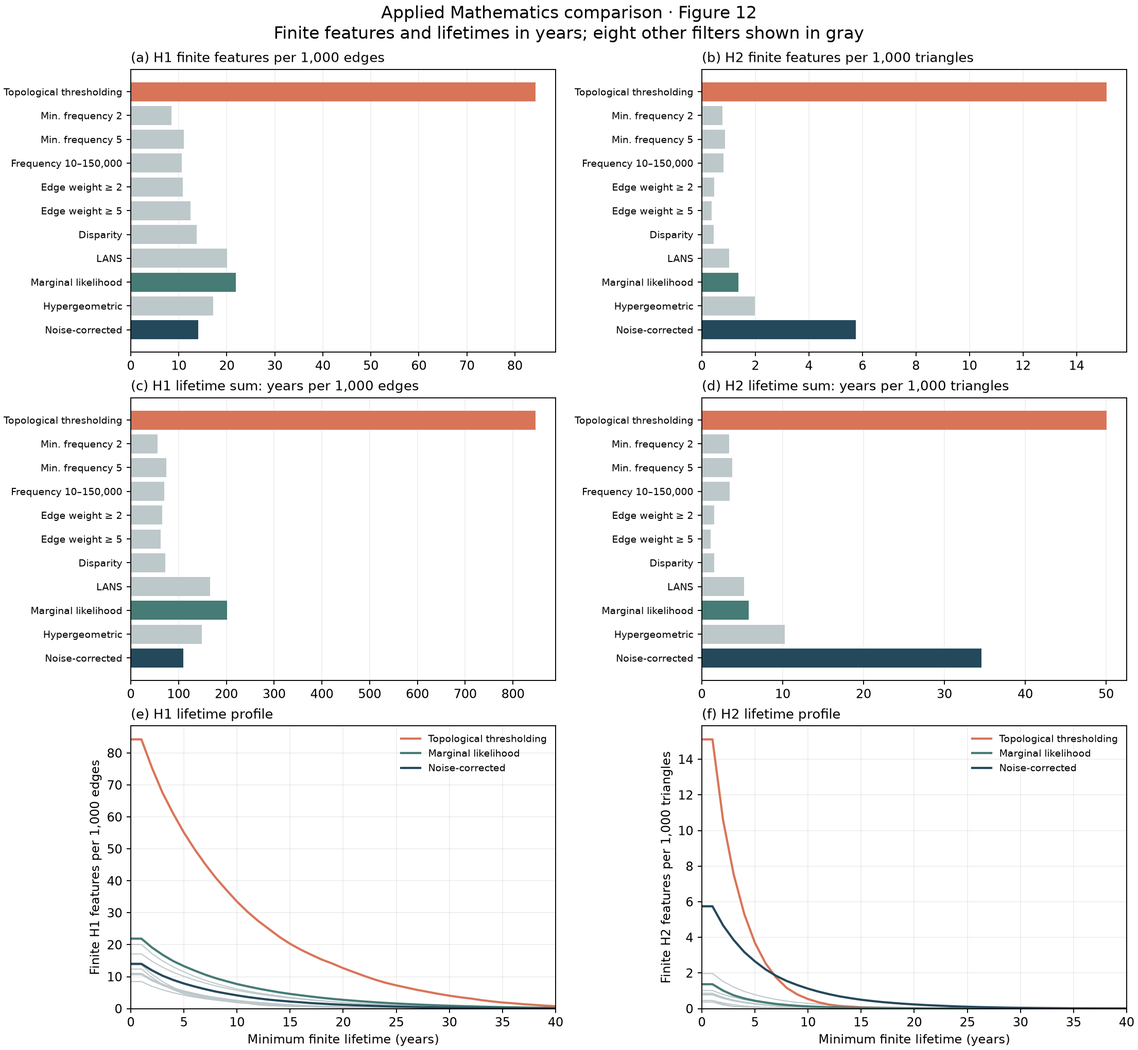
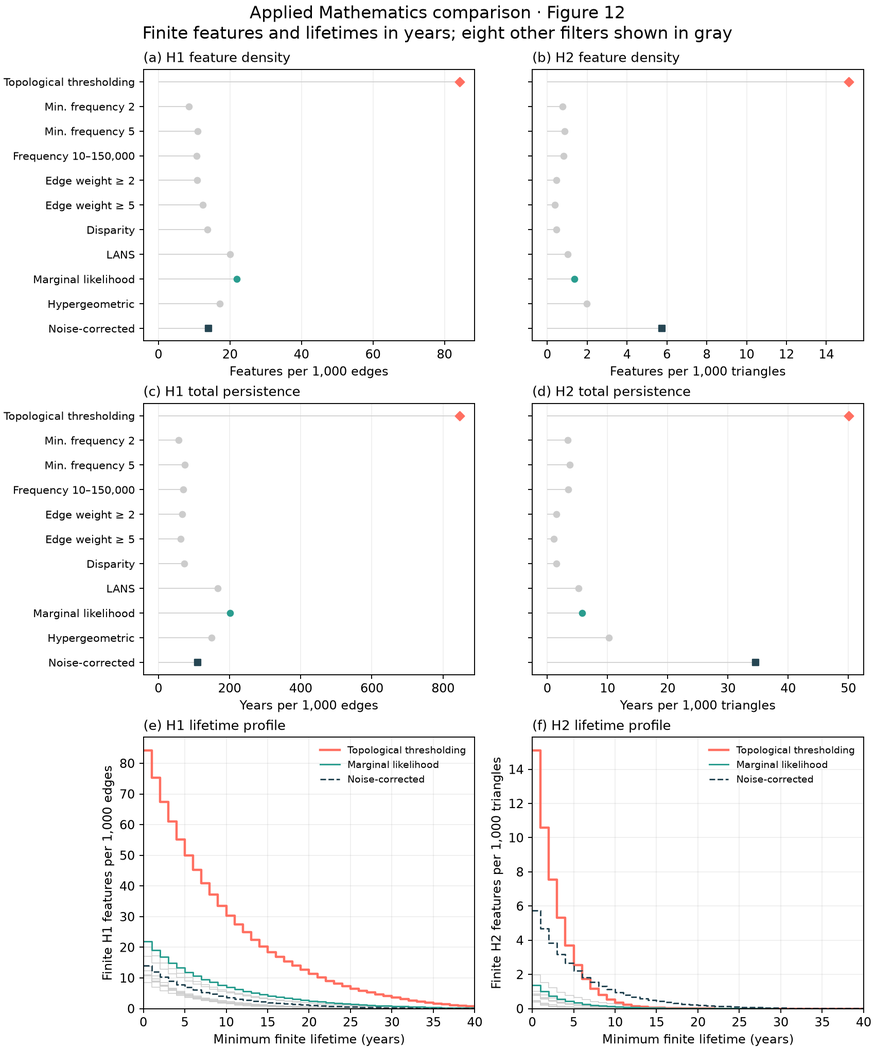
Match replication figures to the manuscript

diff --git a/reproduce.py b/reproduce.py
@@ -9,7 +9,7 @@ from pathlib import Path
 import matplotlib
 matplotlib.use("Agg")
 import matplotlib.pyplot as plt
-from matplotlib.colors import LogNorm
+from matplotlib.colors import LinearSegmentedColormap, LogNorm
 import numpy as np
 import pandas as pd
 
@@ -75,44 +75,73 @@ def calculate():
 
 
 def plot(grid, selections):
-    """One overview of the three reproduced analyses; axes show grid indices."""
-    plt.rcParams.update({"font.size": 10, "axes.spines.top": False, "axes.spines.right": False})
-    fig, axes = plt.subplots(2, 2, figsize=(12, 10), layout="constrained")
+    """Draw Figures 8, 9 and 11 on the manuscript's selectable grid."""
+    plt.rcParams.update({"font.size": 11, "axes.labelsize": 11,
+                         "xtick.labelsize": 10, "ytick.labelsize": 10})
+    palette = LinearSegmentedColormap.from_list("charcoal", ["#eff2f2", "#264653"])
+    lower = grid.groupby("lower_index").lower.first().to_numpy()
+    upper = grid.groupby("upper_index").upper.first().to_numpy()
     highlighted = selections[selections.kind == "highlighted"]
-    for ax, metric, title in zip(axes.flat, ["score", "features", "variance", "sweep"],
-                                ["Local-change score · Figure 8a", "H1 + H2 features · Figure 8b",
-                                 "Higher-order variance · Figure 11", "Constraint sweep · Figure 9"]):
-        if metric == "sweep":
-            sweep = selections[selections.kind == "sweep"].dropna(subset=["score"])
-            counts = sweep.groupby(["upper_index", "lower_index"]).size()
-            ax.scatter(counts.index.get_level_values(1), counts.index.get_level_values(0),
-                       s=counts.to_numpy() * 16, color="#db7866", alpha=.8)
-            for (i, j), count in counts.nlargest(3).items():
-                ax.annotate(str(count), (j, i), ha="center", va="center", fontsize=9)
-            ax.text(.02, .97, f"{len(sweep)} feasible settings; {len(counts)} selected cells\nBubble area = selection count",
-                    transform=ax.transAxes, va="top", fontsize=9)
-        else:
-            values = grid.H1 + grid.H2 if metric == "features" else grid[metric]
-            matrix = values.to_numpy().reshape(16, 9)
-            matrix = np.ma.masked_invalid(matrix)
-            if metric != "features":
-                matrix[:, 0] = np.ma.masked
-            shown = ax.imshow(matrix, origin="lower", aspect="auto", cmap="viridis",
-                              norm=LogNorm(vmin=float(matrix[matrix > 0].min()), vmax=float(matrix.max())))
-            colorbar = fig.colorbar(shown, ax=ax, shrink=.8)
-            colorbar.ax.tick_params(labelsize=8)
-            for row, marker in zip(highlighted.itertuples(), ["*", "+", "o"]):
-                ax.scatter(row.lower_index, row.upper_index, marker=marker, s=90,
-                           color="white", linewidth=1.5)
-        ax.set(title=title, xlabel="Lower frequency threshold (articles)",
-               ylabel="Upper frequency threshold (articles)", xlim=(-.5, 8.5), ylim=(-.5, 15.5))
-        lower = grid.groupby("lower_index").lower.first()
-        upper = grid.groupby("upper_index").upper.first()
-        ax.set_xticks(range(9), [f"{x:.1f}" for x in lower], rotation=45)
-        ax.set_yticks([0, 3, 6, 9, 12, 15], [f"{upper[i]:,.0f}" for i in [0, 3, 6, 9, 12, 15]])
-    fig.suptitle("Applied Mathematics: selections from the saved persistence diagrams\n"
-                 "Markers: star = 25/25; plus = 50/25; dot = 75/50 constraints", fontsize=13)
-    fig.savefig(OUTPUT / "applied_math.png", dpi=170)
+
+    def heatmap(ax, metric, title):
+        values = grid.H1 + grid.H2 if metric == "features" else grid[metric]
+        matrix = values.to_numpy().reshape(len(upper), len(lower))[:, 1:]
+        norm = LogNorm(vmin=matrix.min(), vmax=matrix.max()) if metric == "variance" else None
+        shown = ax.imshow(matrix, origin="lower", aspect="auto", cmap=palette,
+                          norm=norm, interpolation="nearest")
+        ax.set(title=title, xlabel="Lower bound ℓ (articles)", ylabel="Upper bound u (articles)")
+        ax.set_box_aspect(1)
+        ax.set_xticks(range(len(lower) - 1),
+                      [f"{x:.1f}" if i in {0, 2, 5, 7} else "" for i, x in enumerate(lower[1:])])
+        ax.set_yticks(range(len(upper)),
+                      ["No upper\ncutoff" if i == len(upper) - 1 else
+                       f"{x:.1f}" if i % 2 == 0 else "" for i, x in enumerate(upper)])
+        ax.tick_params(length=2)
+        colorbar = ax.figure.colorbar(shown, ax=ax, fraction=.046, pad=.035)
+        colorbar.ax.tick_params(labelsize=9)
+
+    def markers(ax):
+        for row, marker, size in zip(highlighted.itertuples(), ["*", "P", "o"], [150, 85, 55]):
+            ax.scatter(row.lower_index - 1, row.upper_index, marker=marker, s=size,
+                       color="#2b2b2b", edgecolors="white", linewidth=.8, zorder=5)
+
+    # The first lower-bound column supplies neighbors but is not selectable.
+    marker_key = "H₁/H₂ constraint percentiles: star 25/25 · plus 50/25 · dot 75/50"
+    fig, axes = plt.subplots(1, 2, figsize=(11, 5.4), layout="constrained")
+    for ax, metric, title in zip(axes, ["score", "features"],
+                                ["Figure 8a · Local-change score", "Figure 8b · H₁ + H₂ features"]):
+        heatmap(ax, metric, title)
+        markers(ax)
+    fig.supxlabel(marker_key, fontsize=11)
+    fig.savefig(OUTPUT / "applied_math_selections.png", dpi=170)
+    plt.close(fig)
+
+    sweep = selections[selections.kind == "sweep"].dropna(subset=["score"]).copy()
+    sweep["strictness"] = sweep.percentile_H1 + sweep.percentile_H2
+    bubbles = sweep.groupby(["upper_index", "lower_index"]).agg(
+        count=("strictness", "size"), strictness=("strictness", "mean")).reset_index()
+    lo, hi = sweep.strictness.min(), sweep.strictness.max()
+    shade = (bubbles.strictness - lo) / (hi - lo)
+    fig, axes = plt.subplots(1, 2, figsize=(11, 5.4), layout="constrained")
+    for ax, metric, title in zip(axes, ["score", "features"],
+                                ["Figure 9a · Local-change score", "Figure 9b · H₁ + H₂ features"]):
+        heatmap(ax, metric, title)
+        ax.scatter(bubbles.lower_index - 1, bubbles.upper_index, s=bubbles["count"] * 17,
+                   c=shade, cmap="gray_r", vmin=-.4, vmax=1.15,
+                   edgecolors="#2b2b2b", linewidths=.6, zorder=5)
+    for row in bubbles.nlargest(3, "count").itertuples():
+        axes[0].annotate(str(row.count), (row.lower_index - 1, row.upper_index),
+                         xytext=(11, 0), textcoords="offset points", va="center", fontsize=10)
+    fig.supxlabel(f"{len(sweep)} feasible settings · {len(bubbles)} selected cells\n"
+                  "Bubble area = number of selections; darker bubbles = stricter constraints", fontsize=11)
+    fig.savefig(OUTPUT / "applied_math_sweep.png", dpi=170)
+    plt.close(fig)
+
+    fig, ax = plt.subplots(figsize=(6.5, 6.4), layout="constrained")
+    heatmap(ax, "variance", "Figure 11 · Higher-order variance")
+    markers(ax)
+    fig.supxlabel(marker_key, fontsize=9)
+    fig.savefig(OUTPUT / "applied_math_variance.png", dpi=170)
     plt.close(fig)
 
 

diff --git a/comparisons.py b/comparisons.py
@@ -9,6 +9,7 @@ from pathlib import Path
 import matplotlib
 matplotlib.use("Agg")
 import matplotlib.pyplot as plt
+from matplotlib.colors import LinearSegmentedColormap
 import numpy as np
 import pandas as pd
 
@@ -25,9 +26,8 @@ LABELS = {
 ALTERNATIVES = list(LABELS)[1:]
 METRICS = ["H1_finite_per_1k_edges", "H2_finite_per_1k_triangles",
            "H1_total_finite_persistence_per_1k_edges", "H2_total_finite_persistence_per_1k_triangles"]
-TITLES = ["H1 finite features per 1,000 edges", "H2 finite features per 1,000 triangles",
-          "H1 lifetime sum: years per 1,000 edges", "H2 lifetime sum: years per 1,000 triangles"]
-COLORS = {METHOD: "#d87559", "marginal_likelihood": "#467b76", "noise_corrected_variance": "#24495b"}
+TITLES = ["H1 feature density", "H2 feature density", "H1 total persistence", "H2 total persistence"]
+COLORS = {METHOD: "#FF6F61", "marginal_likelihood": "#2A9D8F", "noise_corrected_variance": "#264653"}
 
 
 def calculate_metrics(networks):
@@ -64,11 +64,17 @@ def summarize(measures):
 def plot_applied_math(measures, survival):
     """Figure 12: normalized aggregates and finite-lifetime survival profiles."""
     applied = measures[measures.field_code == "102"].set_index("method").loc[list(LABELS)]
-    fig, axes = plt.subplots(3, 2, figsize=(13, 12), layout="constrained")
+    fig, axes = plt.subplots(3, 2, figsize=(10, 12), layout="constrained")
     for panel, (ax, metric, title) in enumerate(zip(axes.flat, METRICS, TITLES)):
-        ax.barh(range(11), applied[metric], color=[COLORS.get(m, "#bdc8ca") for m in LABELS])
-        ax.set_yticks(range(11), LABELS.values(), fontsize=8)
+        ax.hlines(range(11), 0, applied[metric], color="#CCCCCC", lw=0.7)
+        for y, method in enumerate(LABELS):
+            marker = "D" if method == METHOD else "s" if method == "noise_corrected_variance" else "o"
+            ax.scatter(applied.loc[method, metric], y, marker=marker,
+                       s=28 if method == METHOD else 23, color=COLORS.get(method, "#CCCCCC"), zorder=3)
+        ax.set_yticks(range(11), list(LABELS.values()) if panel % 2 == 0 else [""] * 11, fontsize=9)
         ax.invert_yaxis()
+        units = "Features" if panel < 2 else "Years"
+        ax.set_xlabel(f"{units} per 1,000 " + ("edges" if panel % 2 == 0 else "triangles"))
         ax.set_title(f"({chr(97 + panel)}) {title}", fontsize=11, loc="left")
         ax.set_axisbelow(True)
         ax.grid(axis="x", alpha=0.2)
@@ -78,8 +84,10 @@ def plot_applied_math(measures, survival):
             curve = survival[(survival.method == method) & (survival.dimension == k)]
             curve = curve.sort_values("min_lifetime_years")
             density = 1000 * curve.finite_count / curve.denominator.where(curve.denominator > 0)
-            ax.plot(curve.min_lifetime_years, density, color=COLORS.get(method, "#bdc8ca"),
-                    lw=1.8 if method in COLORS else 0.9,
+            ax.step(curve.min_lifetime_years, density, where="pre",
+                    color=COLORS.get(method, "#CCCCCC"),
+                    lw=1.9 if method == METHOD else 1.25 if method in COLORS else 0.65,
+                    ls="--" if method == "noise_corrected_variance" else "-",
                     label=LABELS[method] if method in COLORS else None)
         ax.set(xlim=(0, 40), ylim=(0, None), xlabel="Minimum finite lifetime (years)",
                ylabel=f"Finite H{k} features per 1,000 " + ("edges" if k == 1 else "triangles"))
@@ -98,7 +106,8 @@ def plot_across_fields(summary):
     medians = medians.loc[ALTERNATIVES, METRICS]
     counts = summary.pivot(index="alternative", columns="metric", values="n_R").loc[ALTERNATIVES, METRICS]
     fig, ax = plt.subplots(figsize=(11, 7), layout="constrained")
-    plot = ax.imshow(np.log2(medians), cmap="YlGnBu", vmin=0, vmax=4, aspect="auto")
+    cmap = LinearSegmentedColormap.from_list("comparison", ["#264653", "#FFFFFF", "#FF6F61"])
+    plot = ax.imshow(np.log2(medians), cmap=cmap, vmin=-4, vmax=4, aspect="auto")
     ax.set_yticks(range(10), [LABELS[m] for m in ALTERNATIVES])
     ax.set_xticks(range(4), ["H1 feature\ndensity", "H2 feature\ndensity",
                              "H1 normalized\ntotal persistence", "H2 normalized\ntotal persistence"])
@@ -107,9 +116,10 @@ def plot_across_fields(summary):
         for j in range(4):
             ratio = medians.iloc[i, j]
             ax.text(j, i, f"{ratio:.2f}×\n(n={counts.iloc[i, j]})", ha="center", va="center",
-                    fontsize=10, color="white" if np.log2(ratio) > 2.2 else "#142d38")
-    colorbar = fig.colorbar(plot, ax=ax, shrink=0.8, ticks=range(5))
-    colorbar.ax.set_yticklabels(["1×", "2×", "4×", "8×", "16×"])
+                    fontsize=10, color="#2B2B2B")
+    colorbar = fig.colorbar(plot, ax=ax, orientation="horizontal", shrink=0.75,
+                            pad=0.08, ticks=[-4, -2, 0, 2, 4])
+    colorbar.ax.set_xticklabels(["1/16×", "1/4×", "1× = equal", "4×", "16×"])
     colorbar.set_label("Median topological-thresholding / alternative ratio")
     fig.suptitle("Cross-field comparison · Figure 13\n"
                  "Positive pairs determine ratios; Table F2 CSV also includes defined zero outcomes", fontsize=13)

diff --git a/README.md b/README.md
@@ -1,8 +1,8 @@
 # Higher-order network selection: replication and example
 
-This repository reproduces the threshold selections, higher-order variance analysis and comparisons with ten alternative methods reported in *Higher-Order Network Structure Inference: A Topological Approach to Network Selection*, by Adam Schroeder, Russell Funk, Jingyi Guan, Taylor Okonek and Lori Ziegelmeier. The calculations use the paper's saved persistence diagrams and network measurements. All required inputs are included.
+This repository reproduces the threshold selections, higher-order variance analysis and comparisons with ten alternative methods reported in [*Higher-Order Network Structure Inference: A Topological Approach to Network Selection*](https://arxiv.org/abs/2510.04884), by Adam Schroeder, Russell J. Funk, Jingyi Guan, Taylor Okonek and Lori Ziegelmeier. The calculations use the [paper](https://arxiv.org/abs/2510.04884)'s saved persistence diagrams and network measurements. All required inputs are included.
 
-The [HONS package](https://github.com/rfunklab/hons) selects network thresholds by minimizing changes in a persistent-homology representation, subject to minimum counts of cycles and cavities. An additional example starts with open workplace contact records and demonstrates the full calculation, from network construction to edge selection.
+The [HONS package](https://github.com/rfunklab/hons) (higher-order network selection) implements topological thresholding, the method studied in the [paper](https://arxiv.org/abs/2510.04884). The method selects network thresholds by minimizing changes in a persistent-homology representation, subject to minimum counts of cycles and cavities. An additional example starts with open workplace contact records and demonstrates the full calculation, from network construction to edge selection.
 
 ## Run the analyses
 
@@ -23,19 +23,23 @@ On Windows, create the environment with `py -3.12 -m venv .venv` and activate it
 
 ## Analyses reproduced
 
-`reproduce.py` recomputes the paper's threshold selections and higher-order variance analysis. `comparisons.py` recomputes the comparisons with ten alternative methods.
+Figure and table numbers below refer to the October 2026 revision. The linked [arXiv preprint](https://arxiv.org/abs/2510.04884) currently contains the earlier October 2025 manuscript.
 
-| Script and output | Figures and tables in the paper | Calculations |
+`reproduce.py` recomputes the [paper](https://arxiv.org/abs/2510.04884)'s threshold selections and higher-order variance analysis. `comparisons.py` recomputes the comparisons with ten alternative methods.
+
+| Script and output | Figures and tables in the [paper](https://arxiv.org/abs/2510.04884) | Calculations |
 | --- | --- | --- |
-| `reproduce.py` → `applied_math.png`, `applied_math_grid.csv`, `applied_math_selections.csv` | Figures 8, 9 and 11 | Persistence images for 144 Applied Mathematics networks, local-change scores for 128 selectable cells, three highlighted selections, the 100-setting constraint sweep and higher-order variance. |
-| `comparisons.py` → `applied_math_comparison.png`, `applied_math_comparison.csv` | Figure 12; four comparison measures in Table F1 | Finite-feature densities, normalized total persistence and finite-lifetime profiles for HONS and ten alternatives, calculated from saved feature counts, lifetime sums, survival counts and network sizes. |
-| `comparisons.py` → `cross_field_comparison.png`, `table_F2.csv` | Figure 13 and Table F2 | Within-field comparisons, median ratios, interquartile ranges, sample sizes and win/tie/loss counts, calculated from saved network-level measurements. |
+| `reproduce.py` → [`applied_math_selections.png`](output/applied_math_selections.png) | Figure 8a–b | Local-change scores and H1 + H2 feature counts, with the three highlighted threshold selections. |
+| `reproduce.py` → [`applied_math_sweep.png`](output/applied_math_sweep.png) | Figure 9a–b | The 100-setting constraint sweep overlaid on the score and feature-count heatmaps. |
+| `reproduce.py` → [`applied_math_variance.png`](output/applied_math_variance.png) | Figure 11 | Higher-order variance across the 128 selectable networks, calculated relative to the mean over all 144 networks. |
+| `comparisons.py` → [`applied_math_comparison.png`](output/applied_math_comparison.png), [`applied_math_comparison.csv`](output/applied_math_comparison.csv) | Figure 12; four comparison measures in Table F1 | Finite-feature densities, normalized total persistence and finite-lifetime profiles for topological thresholding and ten alternatives, calculated from saved feature counts, lifetime sums, survival counts and network sizes. |
+| `comparisons.py` → [`cross_field_comparison.png`](output/cross_field_comparison.png), [`table_F2.csv`](output/table_F2.csv) | Figure 13 and Table F2 | Within-field comparisons, median ratios, interquartile ranges, sample sizes and win/tie/loss counts, calculated from saved network-level measurements. |
 
-Reproduction begins with persistence diagrams and measurements computed for the paper. The scripts recalculate selections and comparison statistics from those inputs. Rebuilding the concept networks from the proprietary Dimensions corpus, running the ten alternative filters and computing the empirical persistence diagrams precede these inputs and are not repeated here. Figure 10's concept neighborhood and analyses outside the table are not included. [Data sources and formats](data/SOURCES.md) describes each input and its preparation.
+Reproduction begins with persistence diagrams and measurements computed for the [paper](https://arxiv.org/abs/2510.04884). The scripts recalculate selections and comparison statistics from those inputs. Rebuilding the concept networks from the proprietary Dimensions corpus, running the ten alternative filters and computing the empirical persistence diagrams precede these inputs and are not repeated here. Figure 10's concept neighborhood and analyses outside the table are not included. [Data sources and formats](data/SOURCES.md) describes each input and its preparation.
 
 ## Applied Mathematics selections
 
-HONS minimizes the local-change score subject to minimum cycle (H1) and cavity (H2) counts. The percentile cutoffs are calculated from feature counts across the 128 selectable networks. Higher-order variance and the four comparison measures evaluate the selected networks. The three highlighted constraint settings produce these selections:
+Topological thresholding minimizes the local-change score subject to minimum cycle (H1) and cavity (H2) counts. The percentile cutoffs are calculated from feature counts across the 128 selectable networks. Higher-order variance and the four comparison measures evaluate the selected networks. The three highlighted constraint settings produce these selections:
 
 | H1 / H2 constraint percentiles | Lower frequency bound | Upper frequency bound | Feasible networks |
 | --- | ---: | ---: | ---: |
@@ -45,19 +49,35 @@ HONS minimizes the local-change score subject to minimum cycle (H1) and cavity (
 
 Frequency bounds are inclusive article counts. The primary 50/25 selection therefore retains concepts appearing in 12–167 articles. That network has the third-lowest higher-order variance among the 44 feasible networks and the tenth-lowest among the 128 selectable networks. The 100-setting sweep finds 99 feasible constraint settings that select 19 distinct threshold pairs; the 91/91 setting is infeasible.
 
-![Recomputed Applied Mathematics selections, feature counts, variance and constraint sweep](output/applied_math.png)
+`applied_math_grid.csv` records the scores, feature counts and variance for all 144 networks. `applied_math_selections.csv` records the three highlighted selections and all 100 constraint settings. The first lower-bound column supplies neighbors for the local-change score and is not selectable, leaving the 128 networks plotted below.
 
-Grid rows and columns are spaced evenly in this overview; their labels give the actual threshold values used in the calculation. Star, plus and dot mark the three constraint settings above. The first lower-bound column supplies neighbors for the local-change score and is not selectable, leaving 128 selectable networks. The mean used for variance includes all 144 networks.
+### Threshold selections—Figure 8
+
+![Figure 8a local-change score and Figure 8b H1 plus H2 feature counts, with three highlighted selections](output/applied_math_selections.png)
+
+Panel a shows the local-change score; panel b shows H1 + H2 feature counts. Star, plus and dot mark the 25/25, 50/25 and 75/50 constraint settings, respectively. Both heatmaps use the manuscript's linear color scales. Rows and columns are spaced evenly; tick labels give the actual frequency bounds.
+
+### Constraint sweep—Figure 9
+
+![Figure 9a score heatmap and Figure 9b feature-count heatmap, both with the constraint-sweep selections overlaid](output/applied_math_sweep.png)
+
+The same sweep selections appear over the score heatmap in panel a and the feature-count heatmap in panel b. Bubble area gives the number of constraint settings selecting each cell. Bubble shade gives the mean sum of the H1 and H2 constraint percentiles for that cell—lighter bubbles indicate looser constraints. Labels give the counts for the three most frequently selected cells.
+
+### Higher-order variance—Figure 11
+
+![Figure 11 higher-order variance across selectable threshold pairs](output/applied_math_variance.png)
+
+Variance uses the mean over all 144 networks and is shown for the 128 selectable networks. Star, plus and dot identify the same three selections as in Figure 8.
 
 ## Comparisons with other methods
 
 The comparisons measure finite-feature density and normalized total persistence in H1 and H2. Densities divide H1 counts by retained edges and H2 counts by retained triangles, multiplying by 1,000. Normalized total persistence divides summed finite lifetimes, in years, by the same denominators and also multiplies by 1,000. A measure is undefined when its edge or triangle denominator is zero.
 
-For each scientific field, `comparisons.py` divides the HONS value by the corresponding alternative's value. Ratios above 1 indicate a larger value for HONS. Pairs with two positive values contribute to the median ratio and interquartile range (`n_R` in `table_F2.csv`). All pairs with defined values, including zeros, contribute to win/tie/loss counts (`n_P`).
+For each scientific field, `comparisons.py` divides the value for topological thresholding by the corresponding alternative's value. Ratios above 1 indicate a larger value for topological thresholding. The sample count printed in each Figure 13 cell is `n_R`, the number of positive pairs. Pairs with two positive values contribute to the median ratio and interquartile range (`n_R` in [`table_F2.csv`](output/table_F2.csv)). All pairs with defined values, including zeros, contribute to win/tie/loss counts (`n_P`).
 
 ## Workplace contact example
 
-`contact_demo.py` uses SocioPatterns observations of face-to-face contacts in a workplace. Each record describes two anonymous participants in a 20-second interval. The script sums contact duration for each pair, dates an edge by its first observation and passes the resulting NetworkX graph to HONS. The paper selects concept nodes by document frequency; this example selects contact edges by total duration.
+[SocioPatterns](https://sociopatterns.org/) is a research collaboration that measures face-to-face contacts using wearable sensors. `contact_demo.py` uses its open [workplace dataset](https://sociopatterns.org/datasets/contacts-in-a-workplace/), collected in an office building in France. Each record describes two anonymous participants in a 20-second interval. The script sums contact duration for each pair, dates an edge by its first observation and passes the resulting NetworkX graph to HONS. The [paper](https://arxiv.org/abs/2510.04884) selects concept nodes by document frequency; this example selects contact edges by total duration.
 
 The search varies the minimum total contact duration from 0 to 5 minutes in 20-second steps. The upper bound stays at the largest observed duration, so the example removes edges with brief total contact durations. The 0-minute cell supplies a neighbor for the score; selection starts at 20 seconds, where the full observed network remains available. All candidates use the same observation window for temporal normalization.
 
@@ -71,4 +91,4 @@ The topological features describe the clique complex of pairwise contacts accumu
 
 The workplace records are distributed by [SocioPatterns](https://sociopatterns.org/datasets/contacts-in-a-workplace/) under [CC0](https://creativecommons.org/publicdomain/zero/1.0/). Please cite M. Génois et al., “Data on face-to-face contacts in an office building suggest a low-cost vaccination strategy based on community linkers,” *Network Science* 3, 326–347 (2015).
 
-The paper's numerical inputs contain derived persistence intervals and network-level measurements from the September 2021 Dimensions snapshot. Article records, concept labels and article identifiers are not included. The [MIT license](LICENSE) covers this repository's code, documentation, original assets and derived numerical files, including those inputs and the generated analysis outputs. See [data/SOURCES.md](data/SOURCES.md) for data provenance. Contact Russell Funk at rfunk@umn.edu.
+The [paper](https://arxiv.org/abs/2510.04884)'s numerical inputs contain derived persistence intervals and network-level measurements from the September 2021 Dimensions snapshot. Article records, concept labels and article identifiers are not included. The [MIT license](LICENSE) covers this repository's code, documentation, original assets and derived numerical files, including those inputs and the generated analysis outputs. See [data/SOURCES.md](data/SOURCES.md) for data provenance. Contact Russell J. Funk at rfunk@umn.edu.

diff --git a/data/SOURCES.md b/data/SOURCES.md
@@ -1,5 +1,7 @@
 # Data sources and formats
 
+These files contain the numerical inputs for [*Higher-Order Network Structure Inference: A Topological Approach to Network Selection*](https://arxiv.org/abs/2510.04884) and an open workplace contact example. Figure and table numbers refer to the October 2026 revision; the linked arXiv preprint currently contains the October 2025 manuscript.
+
 ## Applied Mathematics diagrams and grid
 
 `applied_math_diagrams.npz` contains the authors' saved H1/H2 persistence intervals for the 144 Applied Mathematics threshold pairs in Figures 8, 9 and 11. The source corpus comprises 167,001 articles from the September 2021 Dimensions snapshot.
@@ -12,17 +14,17 @@ The original network calculation retained concepts within each frequency band, d
 
 ## Comparison measurements
 
-`applied_math_survival.csv` contains finite-feature survival counts for the primary HONS selection and the ten alternatives in Figure 12. Columns identify the method, homological dimension, minimum lifetime in integer years, feature count and denominator. H1 uses retained edges; H2 uses retained triangles. The count at year zero gives the finite-feature count. Summing survival counts at years 1 and above gives total finite persistence in years because the source publication dates are integer years. Counts extend through the full observed lifetime range, although the figure displays 0–40 years.
+`applied_math_survival.csv` contains finite-feature survival counts for the primary topological thresholding selection and the ten alternatives in Figure 12. Columns identify the method, homological dimension, minimum lifetime in integer years, feature count and denominator. H1 uses retained edges; H2 uses retained triangles. The count at year zero gives the finite-feature count. Summing survival counts at years 1 and above gives total finite persistence in years because the source publication dates are integer years. Counts extend through the full observed lifetime range, although the figure displays 0–40 years.
 
-`comparison_networks.csv` contains 1,672 network-level rows: the primary HONS selection and ten alternatives for 152 completed scientific fields. Columns preserve field and method identifiers, selected configuration, filter setting, frequency bounds, network sizes, finite H1/H2 counts, summed finite lifetimes in years and the filtration span. The `field_code` values are ANZSRC 2008 Field of Research codes with any leading zero dropped, so `102` denotes group 0102, Applied Mathematics. The table retains the fields with zero-edge HONS selections; the analysis derives the eligible set from the measurements. Comparison denominators and positive-pair rules determine the reported sample sizes.
+`comparison_networks.csv` contains 1,672 network-level rows—the primary topological thresholding selection and ten alternatives for 152 completed scientific fields. Columns preserve field and method identifiers, selected configuration, filter setting, frequency bounds, network sizes, finite H1/H2 counts, summed finite lifetimes in years and the filtration span. The `field_code` values are ANZSRC 2008 Field of Research codes with any leading zero dropped, so `102` denotes group 0102, Applied Mathematics. The table retains the fields where topological thresholding selects a network with no edges; the analysis derives the eligible set from the measurements. Comparison denominators and positive-pair rules determine the reported sample sizes.
 
-These two tables contain the counts, lifetimes and network sizes used in the paper's comparisons. The scripts recalculate the reported densities and ratio summaries from the included counts, lifetimes and denominators. The original filter execution and persistent-homology calculations precede these inputs. The inputs for Applied Mathematics and the cross-field comparisons were prepared as described in the paper's comparison-methods appendix.
+These two tables contain the counts, lifetimes and network sizes used in the [paper](https://arxiv.org/abs/2510.04884)'s comparisons. The scripts recalculate the reported densities and ratio summaries from the included counts, lifetimes and denominators. The original filter execution and persistent-homology calculations precede these inputs. The inputs for Applied Mathematics and the cross-field comparisons were prepared as described in the [paper](https://arxiv.org/abs/2510.04884)'s comparison-methods appendix.
 
-The generated `output/table_F2.csv` contains the cross-field summaries. For each measure and alternative, `n_R` counts fields with positive values for both HONS and the alternative; `n_P` counts all fields with defined values, including zeros. Median and quartile ratios are calculated on the log2 scale and transformed back. Win/tie/loss counts use all `n_P` pairs; values are tied when their absolute difference is at most `1e-12 + 1e-9 * abs(alternative_value)`.
+The generated `output/table_F2.csv` contains the cross-field summaries. For each measure and alternative, `n_R` counts fields with positive values for both topological thresholding and the alternative; `n_P` counts all fields with defined values, including zeros. Median and quartile ratios are calculated on the log2 scale and transformed back. Win/tie/loss counts use all `n_P` pairs; values are tied when their absolute difference is at most `1e-12 + 1e-9 * abs(alternative_value)`.
 
 ## Workplace observations
 
[2 lines of base64/hex data omitted]
 
 The three whitespace-separated columns are timestamp `t` in seconds and anonymous participant identifiers `i` and `j`. Each row records a contact during `[t−20, t]`. The observations were collected in 2013 in an office building in France. Department attributes are unused and are not bundled.
 
